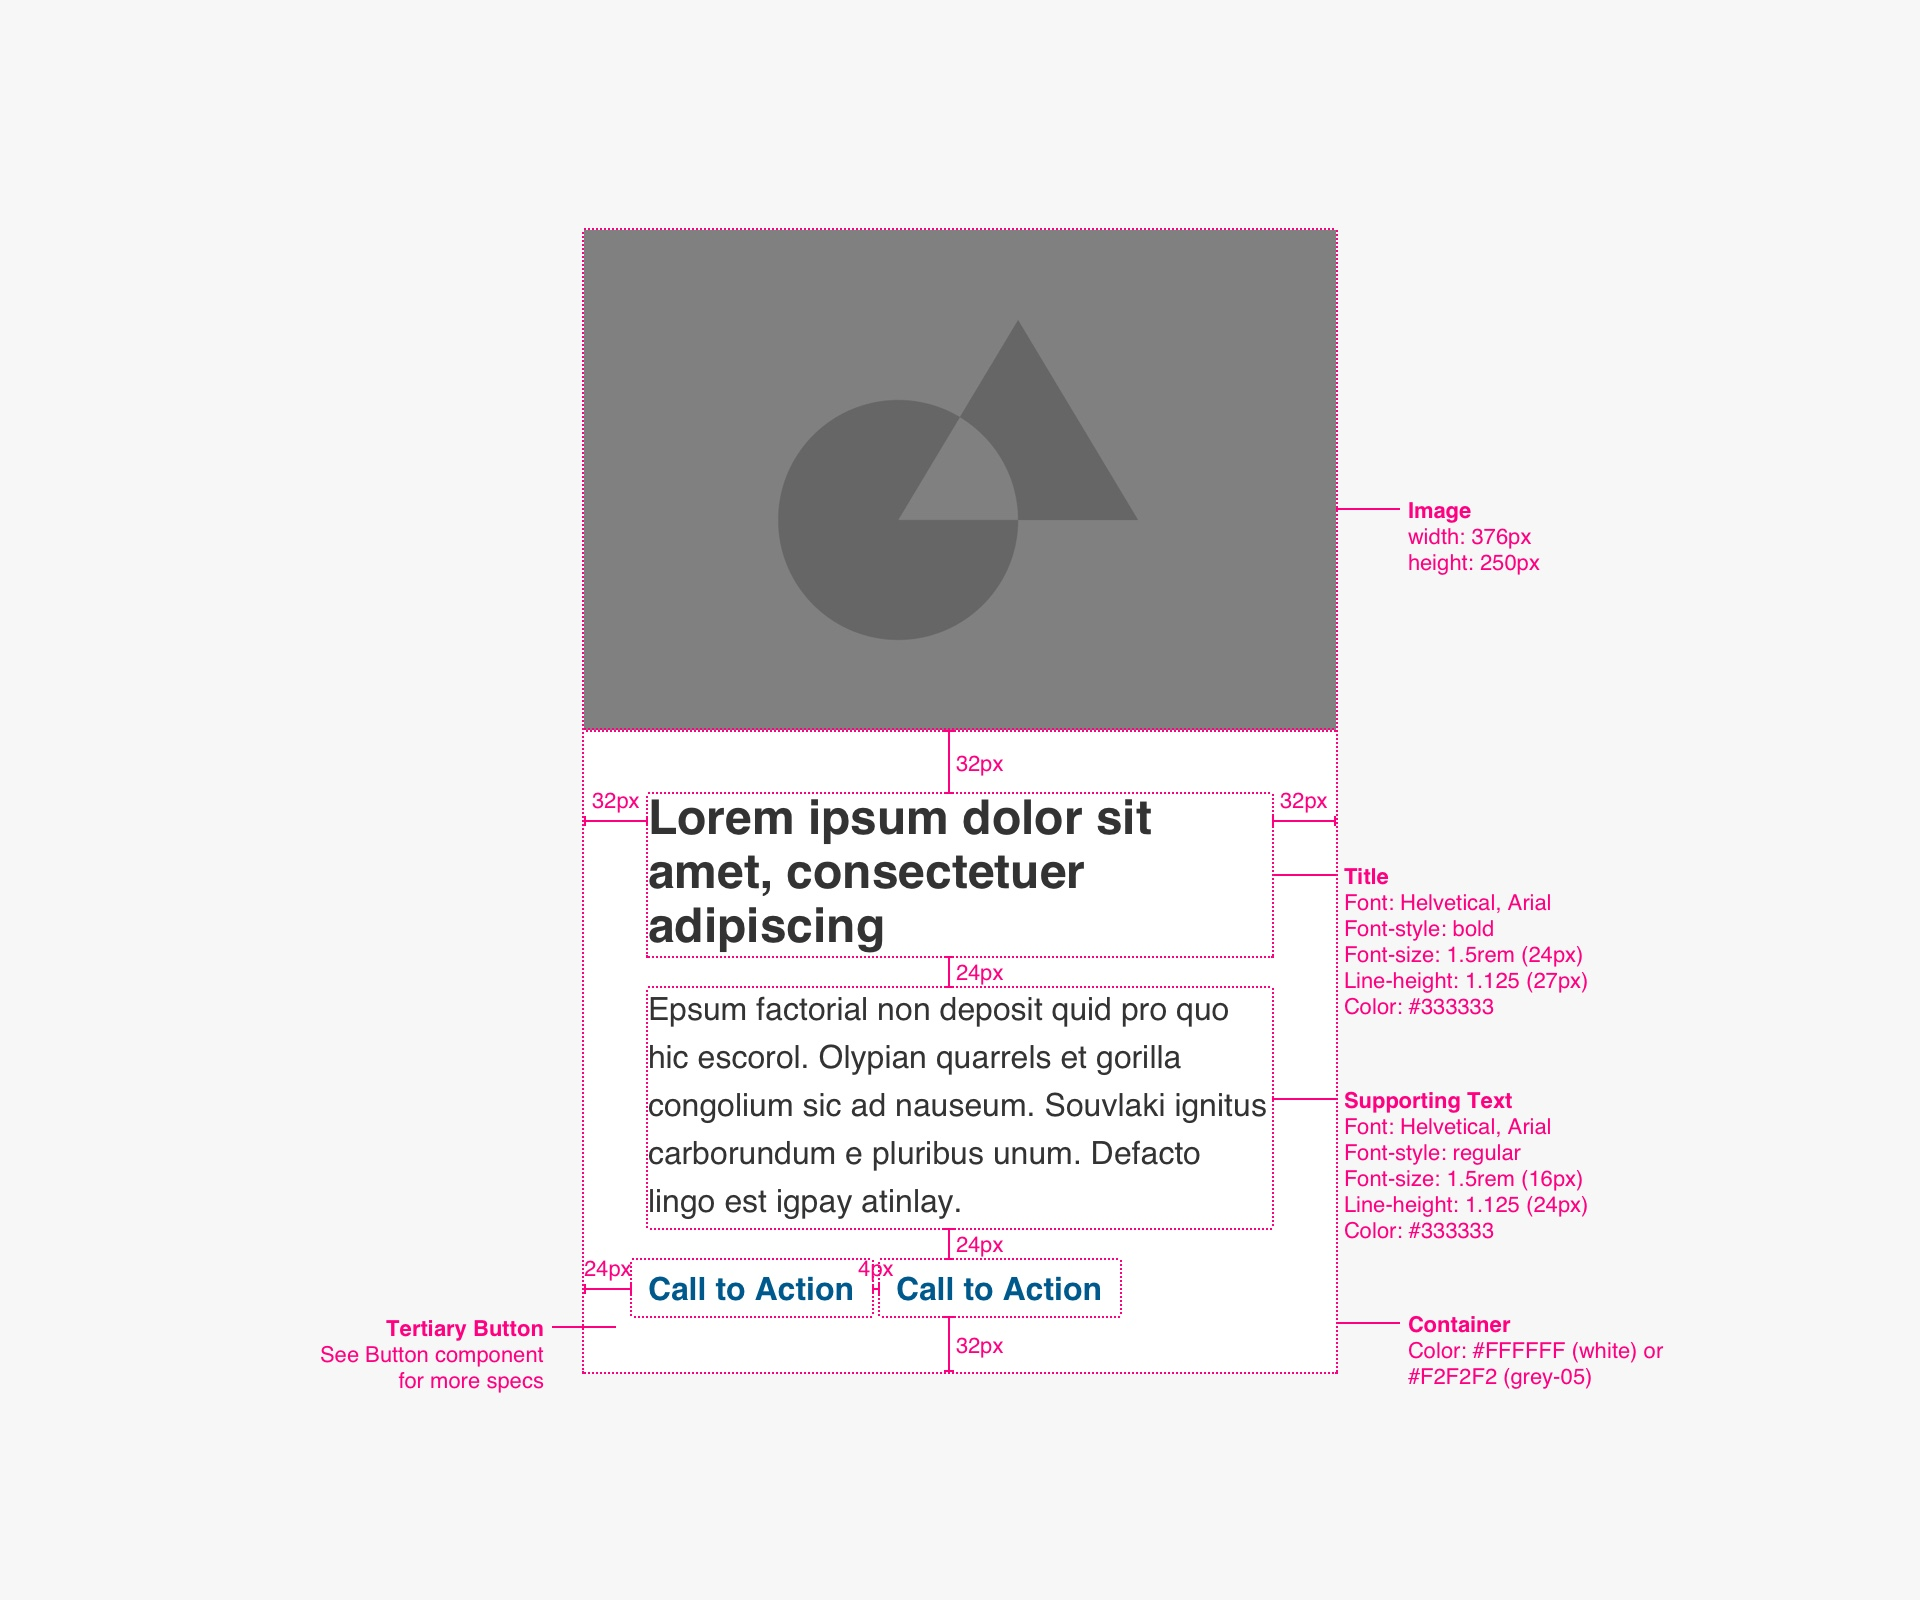
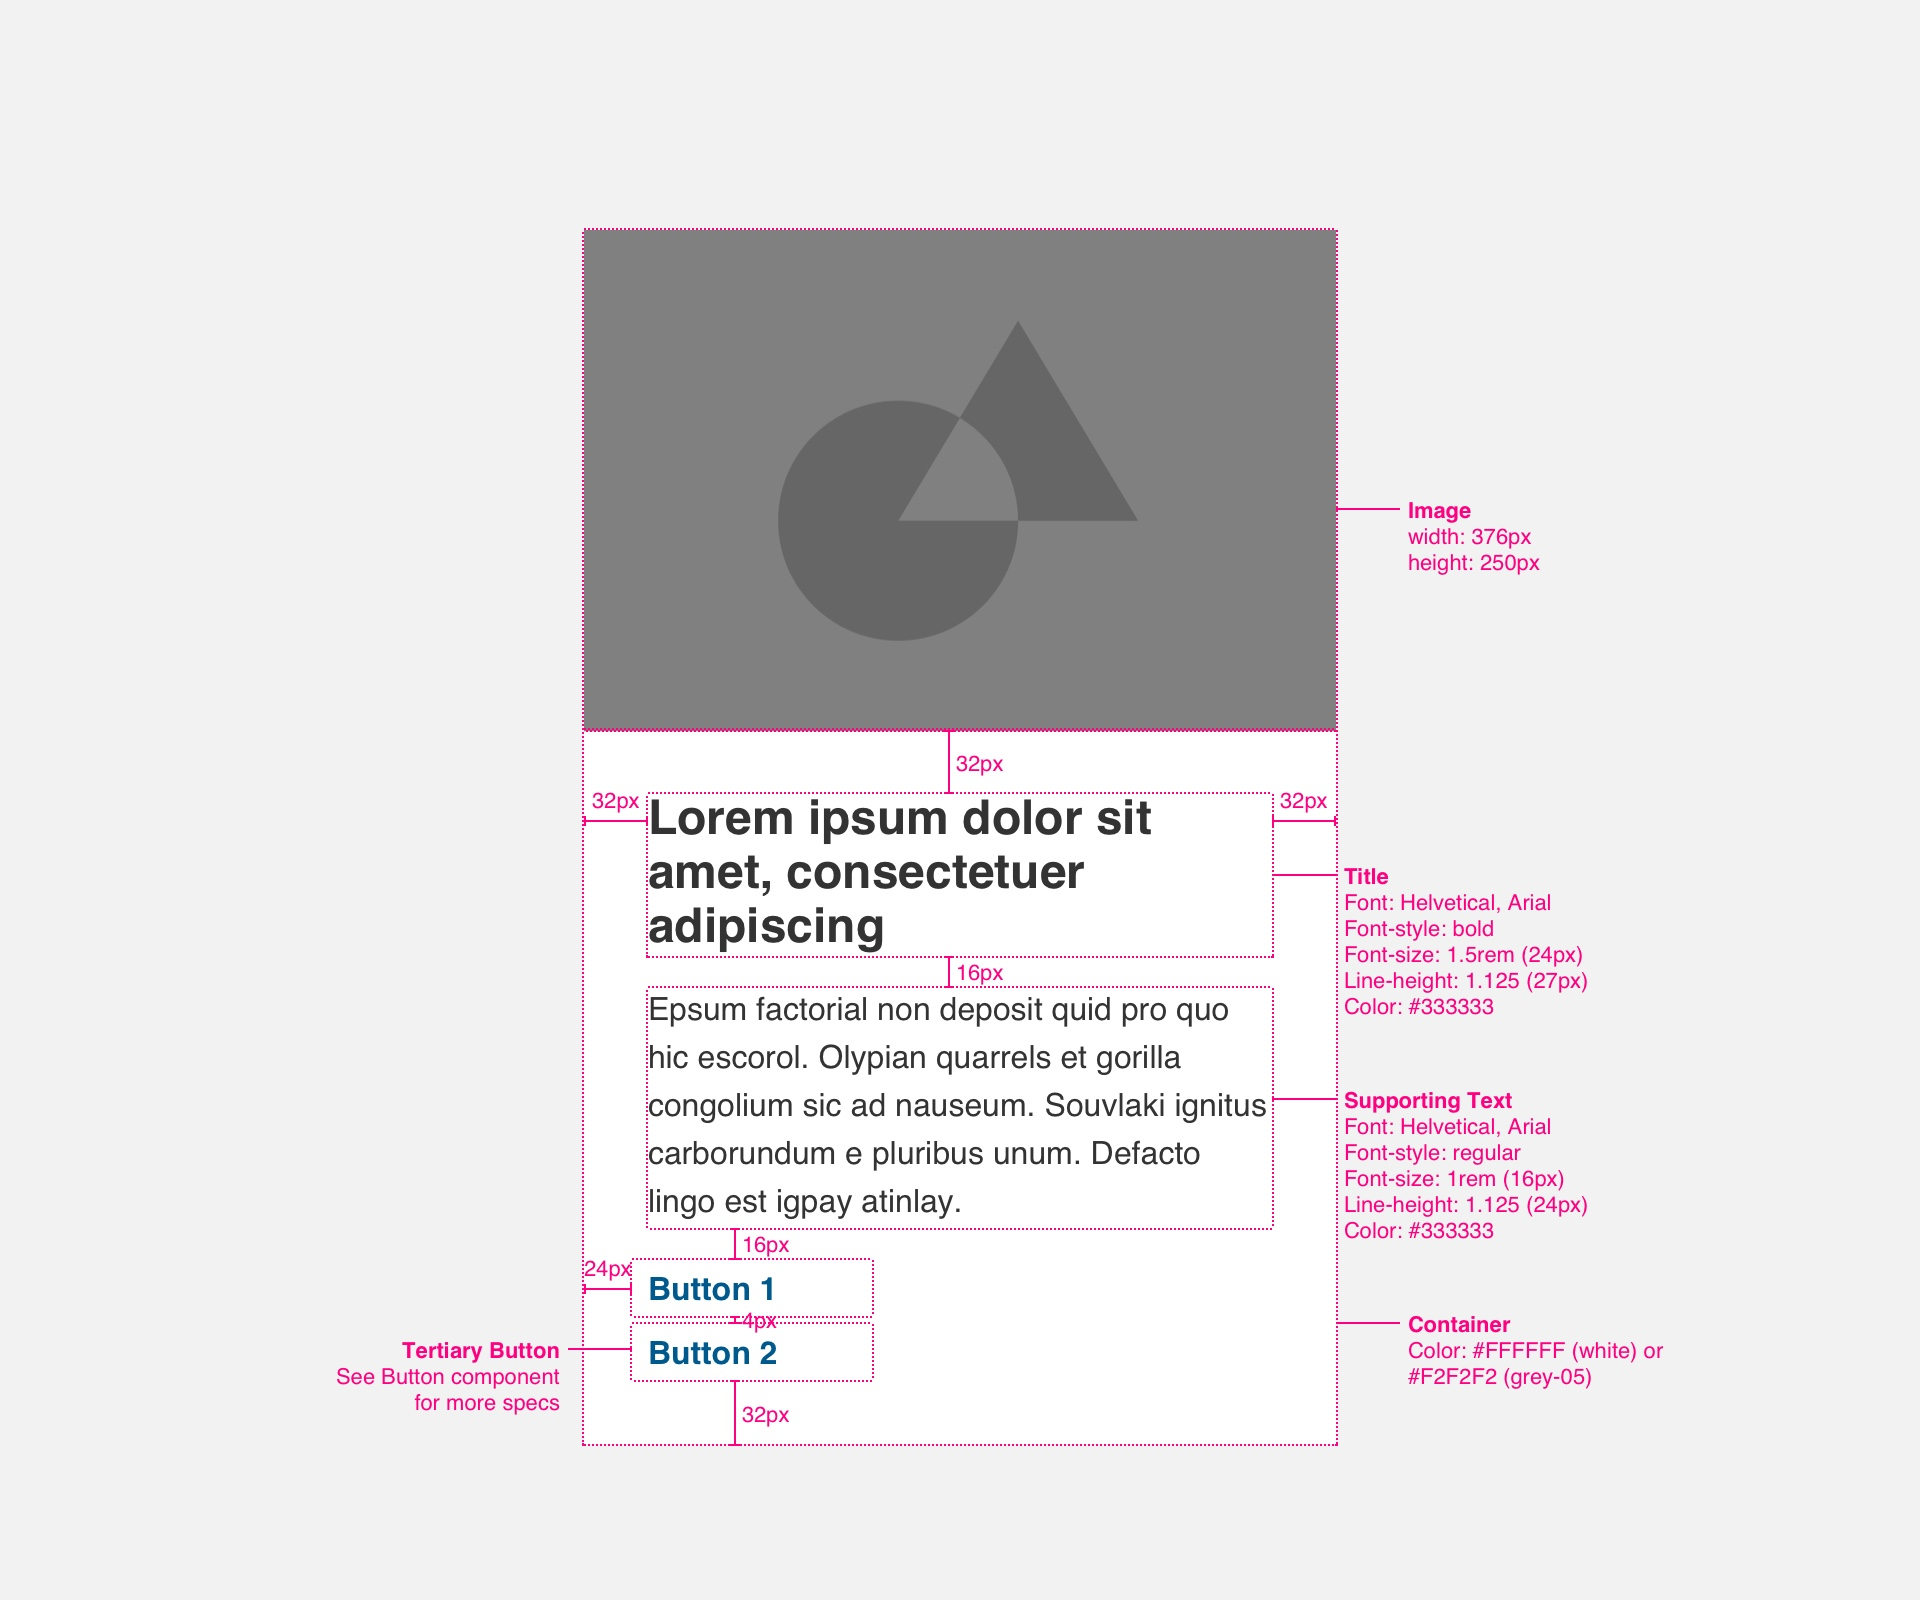
update basic card specs

Changed region(s): [[0.3438, 0.75, 0.5938, 0.9062], [0.1562, 0.8125, 0.3125, 0.9062], [0.75, 0.7188, 0.8125, 0.75]]

diff --git a/src/scss/components/_cards.scss b/src/scss/components/_cards.scss
@@ -38,7 +38,7 @@
     font-size: 24px;
     font-weight: bold;
     line-height: 27px;
-    margin-bottom: 24px;
+    margin-bottom: 16px;
   }
 
   &__info-wrapper {
@@ -46,7 +46,7 @@
   }
 
   &__description {
-    margin-bottom: 24px;
+    margin-bottom: 16px;
     font-size: 16px;
     line-height: 24px;
     color: colors.$medium-grey5;
@@ -59,7 +59,10 @@
 
   &__buttons {
     margin: 0 auto;
-    text-align: center;
+    display: grid;
+    grid-gap: 4px;
+    justify-items: start;
+    margin-left: -8px;
   }
 }
 
